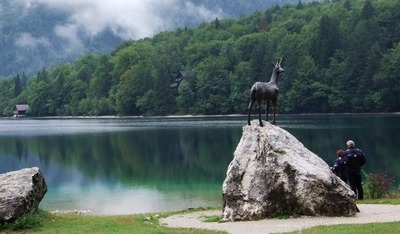
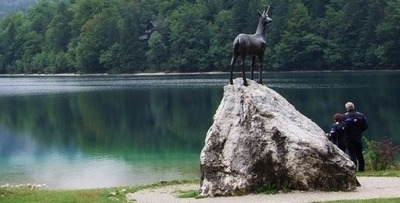
Changes in images / responsiveness

diff --git a/index.html b/index.html
@@ -1,4 +1,4 @@
-<!--++++++++++++++++++++++++++++++++++++++++++++++++++++++++-->
+<!--++++++++++++++++++++++++++++++++++++++++++++++++++++++++-->
 <!--++++++++++++++++++++++++++++++++++++++++++++++++++++++++-->
 <!--	 		Project By Oren Tayar 						-->
 <!-- 	Submitted as part of Udacity Full Stack Nanodegree 	-->
@@ -18,6 +18,7 @@
 </head>
 <body>
 	<div class="container">
+		<!-- The header of the page -->
 		<header class="row">
 			<div class="col-third icon_place">
 				<img class="icon" src="images/Oren.JPG" alt="icon of Oren">
@@ -28,12 +29,14 @@
 			</div>
 		</header>
 		<hr>
+		
+		<!-- The main picture on the page -->
 		<div class="row">
 			<div class="col-full">
 				<picture class="main_image">
-					<source media="(max-width: 700px)" srcset="images/Slovenia_cropped_large.jpg" >
-   					<source media="(max-width: 400px)" srcset="images/Slovenia_cropped_small.jpg" >
-   					<source srcset="images/Slovenia_900.jpg" >
+					<source media="(min-width: 701px)" srcset="images/Slovenia_900.jpg" >
+					<source media="(min-width: 401px)" srcset="images/Slovenia_700.jpg" >
+   					<source srcset="images/Slovenia_cropped_small.jpg 1x, images/Slovenia_cropped_large.jpg 2x" >
    					<img src="images/Slovenia_900.jpg" alt="Image of a Slovenia" class="main_image">
 				</picture>
 
@@ -41,9 +44,10 @@
 			</div>
 		</div>
 		
+		<!-- The "portfolio" or in my case "places I've been to" -->
 		<div class="row project">
 			<div class="col-third">
-				<img id="greece" src="images/Greece_1200.jpg" class="project_image left" alt="picture of Greece">
+				<img src="images/Greece_1200.jpg" class="project_image left" alt="picture of Greece">
 				<h2 class="short">Greece 2013</h2>
 				Greece
 			</div>
@@ -59,7 +63,7 @@
 			</div>
 		</div>		
 		<div class="row project">
-			    <p></p>
+			<p></p>
 		</div>
 	</div>
 </body>

diff --git a/CSS/mystyle.css b/CSS/mystyle.css
@@ -1,5 +1,4 @@
-/*the overall content will be controlled with the container class */
-
+/*the overall content will be controlled with the container class */
 .container {
 	margin: 0 auto;
 }
@@ -10,8 +9,6 @@
 	width: 100%;
 	margin: 0 auto;
     display: flex; 
-    /* border-style: dotted; */
-    align:center;
 }
 
 /* used for full lines */
@@ -27,16 +24,19 @@
 	padding-right: 10px;
 }
 
+/* etc' - you got the point */
 .col-third {
 	width: 33.3%;
 }
 
+/* etc' - you got the point */
 .col-two-thirds {
 	width: 66.6%;
 }
 
+/* this is used for my picture */
 .icon {
-	width: 70px;
+	width: 70px; /*note this size will change later with media queries*/
 	border-radius: 50%;
 	padding: 10px 0px;
 }
@@ -140,7 +140,7 @@ h2:hover{
   .icon {
 	width: 50px;
 	border-radius: 50%;
-	padding: 5px 0px;
+	padding: 5px 0;
 	}
 }
 
@@ -168,4 +168,33 @@ h2:hover{
  	.project {
  		flex-direction: column;
  	}
+ 	
+ 	.col-third {
+ 	    width: 100%;
+ 	}
+ 	
+ 	
+    .right {
+    	margin-right: 0;
+    	padding-right: 0;
+    	padding-left:0;
+    	margin-left:0;
+    	margin-top:20px;
+    }
+    
+     .left {
+    	margin-right: 0;
+    	padding-right: 0;
+    	padding-left:0;
+    	margin-left:0;
+     	
+    }
+    
+     .center {
+    	margin-right: 0;
+    	padding-right: 0;
+    	padding-left:0;
+    	margin-left:0;
+    	margin-top:20px;
+    }
 }
